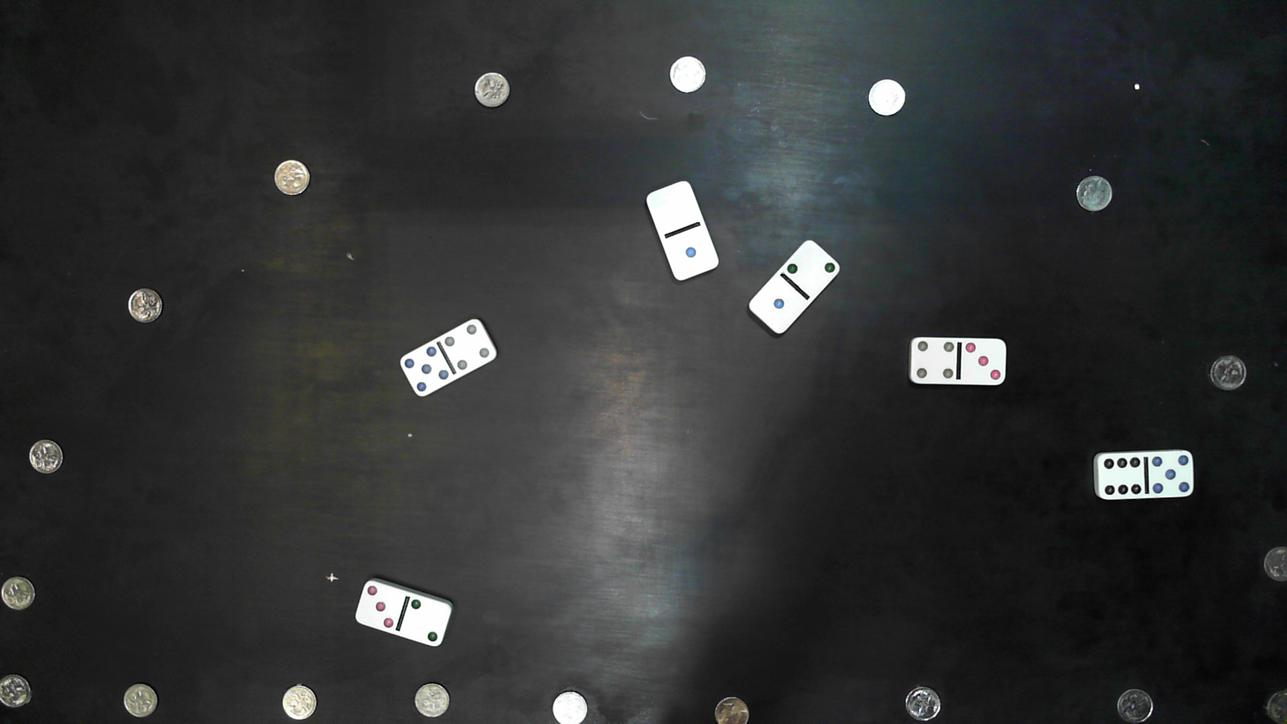
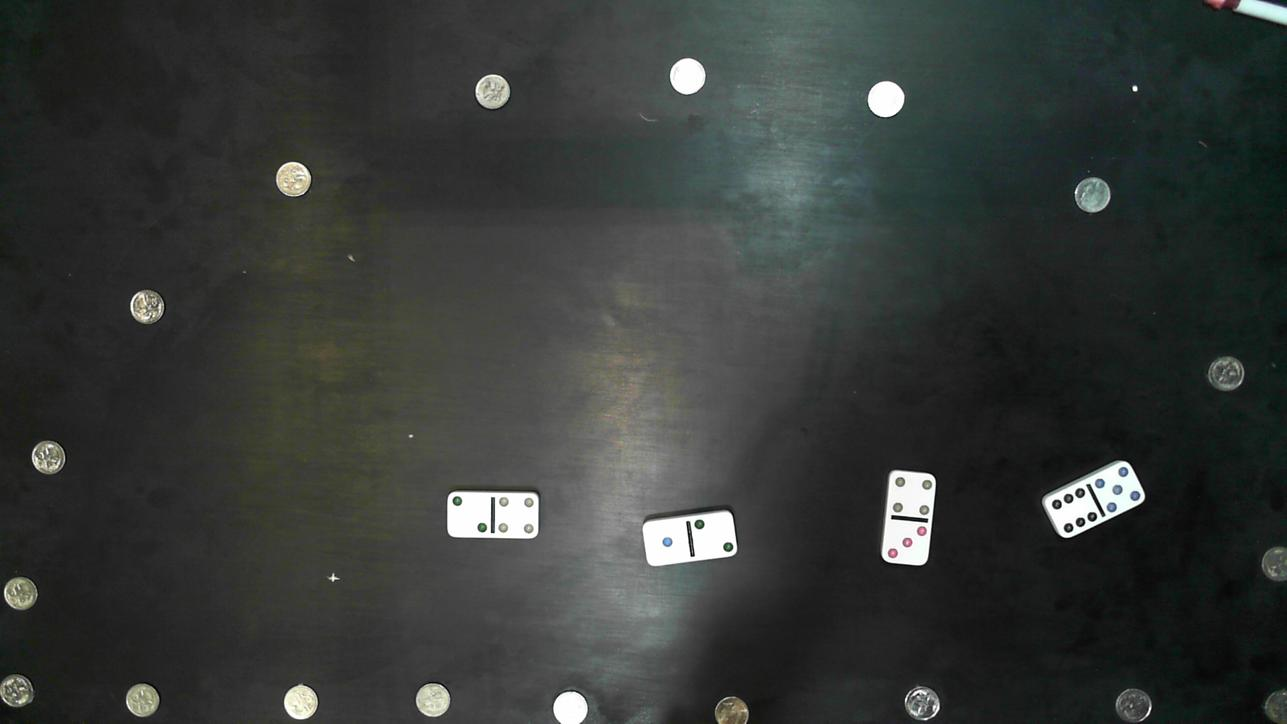
Orientation Update, don't try this at home

diff --git a/get_the_D/count_polygons.m b/get_the_D/count_polygons.m
@@ -11,46 +11,138 @@ for index = 1:m
     % Get polygons
     [xv1, yv1, xv2, yv2,theta] = get_polygon(index, trackingin, matches);
     
-    x1mean = mean(xv1);
-    y1mean = mean(yv1);
-    x2mean = mean(xv2);
-    y2mean = mean(yv2);
-    
-    orientation = [0 0];
-    
-    if (x1mean < x2mean)
-        orientation(1) = 1;
-    end
-        
-    if (y1mean < y2mean)
-        orientation(2) = 1;
-    end
-    
     % Left hand sided count
-    [in,on] = inpolygon(xq,yq,xv1,yv1);
-    lFace = numel(xq(in)) + numel(xq(on));
+    [in1,on1] = inpolygon(xq,yq,xv1,yv1);
+    lFace = numel(xq(in1)) + numel(xq(on1));
     face_count(index, 1) = lFace*2;
     
     % Right hand sided count
-    [in,on] = inpolygon(xq,yq,xv2,yv2);
-    rFace = numel(xq(in)) + numel(xq(on));
+    [in2,on2] = inpolygon(xq,yq,xv2,yv2);
+    rFace = numel(xq(in2)) + numel(xq(on2));
     face_count(index, 2) = rFace*2;
+    
+    
+    
+    
     
     % Store centers
     face_count(index, 3) = trackingin(index, 1) + 0.5 * trackingin(index, 3);
     face_count(index, 4) = trackingin(index, 2) + 0.5 * trackingin(index, 4);
     face_count(index, 5) = theta;
-    face_count(index, 6) = orientation(1);
-    face_count(index, 7) = orientation(2);
+    
     LRT = [lFace rFace theta];
-
+    
+    if (rFace*2 > lFace*2) % lFace is the little face
+        LR = 1
+    else % rFace is the little face
+        LR = 0
+    end
+    
+    middle_x_1 = mean(xv1);
+    middle_y_1 = mean(yv1);
+    middle_x_2 = mean(xv2);
+    middle_y_2 = mean(yv2);
+    
+    if(middle_x_1 == middle_x_2) %vertical
+        mx1 = mean(xq(in1));
+        mx2 = mean(xq(in2));
+        
+        if lFace == 0
+            mx1 = face_count(index, 3);
+        end
+        
+        if rFace == 0
+            mx2 = face_count(index, 3);
+        end
+        
+        VH = 1
+        if (mx1 > mx2) %lFace on right hand side
+            RT_LB = 1
+        end
+        
+        if (mx1 < mx2) %rFace on right hand side
+            RT_LB = 0
+        end
+        
+    end
+    
+    if(middle_y_1 == middle_y_2) %horizontal
+        my1 = mean(yq(in1));
+        my2 = mean(yq(in2));
+        
+        if lFace == 0
+            my1 = face_count(index, 4);
+        end
+        
+        if rFace == 0
+            my2 = face_count(index, 4);
+        end
+        
+        VH = 0
+        if (my1 > my2) %lFace on top
+            RT_LB = 1
+        end
+        
+        if (my1 < my2) %rFace on top
+            RT_LB = 0
+        end
+    end
+    
+    if (lFace == 0 && rFace == 0)
+        if(mod(theta,180) > 90)
+            LR = 0;
+            VH == 1;
+            RT_LB == 1;
+        else 
+            LR == 1;
+            VH == 1;
+            RT_LB == 0
+        end
+    end
+        
+    
+    
+    if (LR == 1 && VH == 1 && RT_LB == 1)
+        orientation = 2;
+    end
+    
+    if (LR == 1 && VH == 1 && RT_LB == 0)
+        orientation = 1;
+    end
+    
+    if (LR == 0 && VH == 1 && RT_LB == 0)
+        orientation = 3;
+    end
+    
+    if (LR == 0 && VH == 1 && RT_LB == 1)
+        orientation = 4;
+    end
+    
+    if (LR == 1 && VH == 0 && RT_LB == 1)
+        orientation = 1;
+    end
+    
+    if (LR == 0 && VH == 0 && RT_LB == 0)
+        orientation = 2;
+    end
+    
+    if (LR == 0 && VH == 0 && RT_LB == 1)
+        orientation = 3;
+    end
+    
+    if (LR == 1 && VH == 0 && RT_LB == 0)
+        orientation = 4;
+    end
+    
+    face_count(index, 6) = orientation;
+    
     %plotting
-        plot(face_count(index, 3)*0.5, face_count(index, 4)*0.5,'g+','LineWidth',2);
-        plot(xv1*0.5,yv1*0.5,'LineWidth',2,'Color','y');
-        axis equal;
-        hold on;
-        plot(xv2*0.5,yv2*0.5,'LineWidth',2,'Color','b');
-        axis equal;
-        hold on;
+    plot(face_count(index, 3)*0.5, face_count(index, 4)*0.5,'g+','LineWidth',2);
+    plot(xv1*0.5,yv1*0.5,'LineWidth',2,'Color','y');
+    axis equal;
+    hold on;
+    plot(xv2*0.5,yv2*0.5,'LineWidth',2,'Color','b');
+    axis equal;
+    hold on;
 end
 end

diff --git a/get_the_D/make_bag_o_D.m b/get_the_D/make_bag_o_D.m
@@ -29,7 +29,7 @@ tmp = 0;
 
 
 for i = 1:length(face_data(:,1))
-    twist_array =  [face_data(i,1)/2 face_data(i,2)/2 face_data(i,6)  face_data(i,7) face_data(i,5)];
+    twist_array =  [face_data(i,1)/2 face_data(i,2)/2 face_data(i,6) face_data(i,5)];
     if(face_data(i,1) > face_data(i,2))
         tmp = face_data(i,1);
         face_data(i,1) = face_data(i,2);
@@ -40,49 +40,57 @@ for i = 1:length(face_data(:,1))
         %             face_data(i, 5) = mod((face_data(i, 5)+180),360);
         %         end
         %         after = face_data(i, 5)
-        if (twist_array(3) == 0)
-            twist_array(3) = 1;
-        else
-            twist_array(3) = 0;
-        end
-        
-        if (twist_array(4) == 0)
-            twist_array(4) = 1;
-        else
-            twist_array(4) = 0;
-        end
+        %         if (twist_array(3) == 0)
+        %             twist_array(3) = 1;
+        %         else
+        %             twist_array(3) = 0;
+        %         end
+        %
+        %         if (twist_array(4) == 0)
+        %             twist_array(4) = 1;
+        %         else
+        %             twist_array(4) = 0;
+        %         end
     end
     
     % TL
-    if ((twist_array(3) == 1) && (twist_array(4) == 0))
-        while((twist_array(5) > 360) || (twist_array(5) < 270))
-            twist_array(5) = mod((twist_array(5) + 90),360);
+    if (face_data(i,6) == 4)
+        enter_TL = 1
+        while((twist_array(4) > 360) || (twist_array(4) < 270))
+            twist_array(4) = mod((twist_array(4) + 90),360);
         end
     end
     
     % TR
-    if ((twist_array(3) == 0) && (twist_array(4) == 1))
-        while((twist_array(5) > 270) || (twist_array(5) < 180))
-            twist_array(5) = mod((twist_array(5) + 90),360);
-        end
-    end
-    
-    % BL
-    if ((twist_array(3) == 0) && (twist_array(4) == 0))
-        while((twist_array(5) > 360) || (twist_array(5) < 270))
-            twist_array(5) = mod((twist_array(5) + 90),360);
+    if (face_data(i,6) == 3)
+        enter_TR = 1
+        while((twist_array(4) > 270) || (twist_array(4) < 180))
+            twist_array(4) = mod((twist_array(4) + 90),360);
         end
     end
     
     % BR
-    if ((twist_array(3) == 1) && (twist_array(4) == 1))
-        while((twist_array(5) > 180) || (twist_array(5) < 90))
-            twist_array(5) = mod((twist_array(5) + 90),360);
+    if (face_data(i,6) == 2)
+        enter_BR = 1
+        while((twist_array(4) > 180) || (twist_array(4) < 90))
+            twist_array(4) = mod((twist_array(4) + 90),360);
         end
     end
-    face_data(i, 5) = twist_array(5);
+    
+    % BL
+    if (face_data(i,6) == 1)
+        enter_BL = 1
+        while((twist_array(4) > 90) || (twist_array(4) < 0))
+            twist_array(4) = mod((twist_array(4) + 90),360);
+        end
+    end
+    
+    
+    face_data(i, 6) = twist_array(3);
+    face_data(i, 5) = twist_array(4);
+    printpls = [face_data(i,1) face_data(i,2) face_data(i,5) face_data(i,6)]
 end
-the_angle_found = [face_data(:,1)/2 face_data(:,2)/2 face_data(:, 5) face_data(:,6)  face_data(:,7)]
+% the_angle_found = [face_data(:,1)/2 face_data(:,2)/2 face_data(:, 5) face_data(:,6)]
 face_data(:, 5) = face_data(:, 5)*SCALING_FACTOR;
 face_data = sortrows(face_data,1);
 

diff --git a/give_the_D/not_already_good.m b/give_the_D/not_already_good.m
@@ -2,9 +2,9 @@ function [far_away] = not_already_good (world, theta)
 ANGLE_TOL = 30; %degrees
 DIST_TOL = 1.5; %cm
 far_away = true;
-theta_test = theta + 360 + 360 - 270;
+theta_test = theta + 360 + 360;
 theta_test = mod(theta_test,360);
-if ((abs(90-theta_test) < ANGLE_TOL))
+% if ((abs(90-theta_test) < ANGLE_TOL))
 
     %check angle
     ANGLEISGOOD = [theta_test]
@@ -24,6 +24,6 @@ if ((abs(90-theta_test) < ANGLE_TOL))
     XY_IS_BAD = xy
     
     
-end
+% end
 ANGLEISBAD = [theta]
 end

diff --git a/Main/main.m b/Main/main.m
@@ -5,7 +5,7 @@ total_sorted = 0;
 loadlibrary('dynamixel','dynamixel.h');
 res = calllib('dynamixel','dxl_initialize', 17, 1);
 
-speed = 500;
+speed = 50;
 slip_comp=1;
 calllib('dynamixel','dxl_write_word', 1, 32, speed);
 calllib('dynamixel','dxl_write_word', 2, 32, speed);
@@ -170,7 +170,9 @@ while (1)
     prez_x = 1000;
     prez_y = 1000;
     dynamixel_running()
+    working = 1
     pause(10)
+    working = 0
     
 end
 end

diff --git a/Movement/motor_mover.m b/Movement/motor_mover.m
@@ -54,7 +54,7 @@ GoalPos = final_pos;
 %a=res
 %if res == 1
 %   disp('Succeed to open USB2Dynamixel!');
-    calllib('dynamixel','dxl_write_word', id, 32, 50);
+  %  calllib('dynamixel','dxl_write_word', id, 32, 50);
     calllib('dynamixel','dxl_write_word', id ,P_GOAL_POSITION,GoalPos);     
 %else
 %    disp('Failed to open USB2Dynamixel!');
